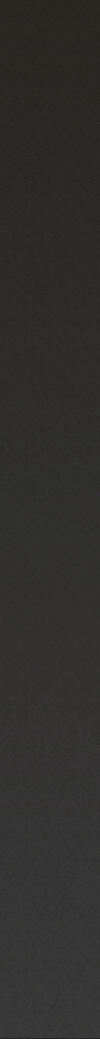
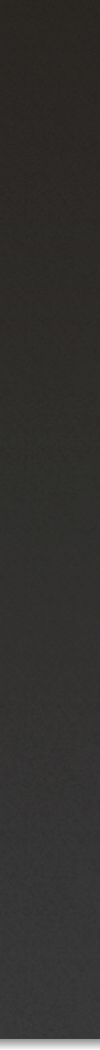
Some basic body css fixes

Changed region(s): [[0.0, 0.9856, 1.0, 1.0]]

diff --git a/index.html b/index.html
@@ -92,7 +92,7 @@
 
 
     </div>
-
+    <p style="padding-top:13000px">&nbsp;</p>
     <!-- jQuery (necessary for Bootstrap's JavaScript plugins) -->
     <script src="https://code.jquery.com/jquery.js"></script>
     <!-- Include all compiled plugins (below), or include individual files as needed -->

diff --git a/css/site.css b/css/site.css
@@ -3,7 +3,10 @@ body, html {
 	margin: 0;
 }
 body {
-	background: transparent url('../images/page_bg.png') repeat-x top left;
+	background-color: #2e2c28;
+	background-image: url('../images/page_bg.png');
+	background-position: top left;
+	background-repeat: repeat-x;
 }
 header {
 	margin-top: 2em;
